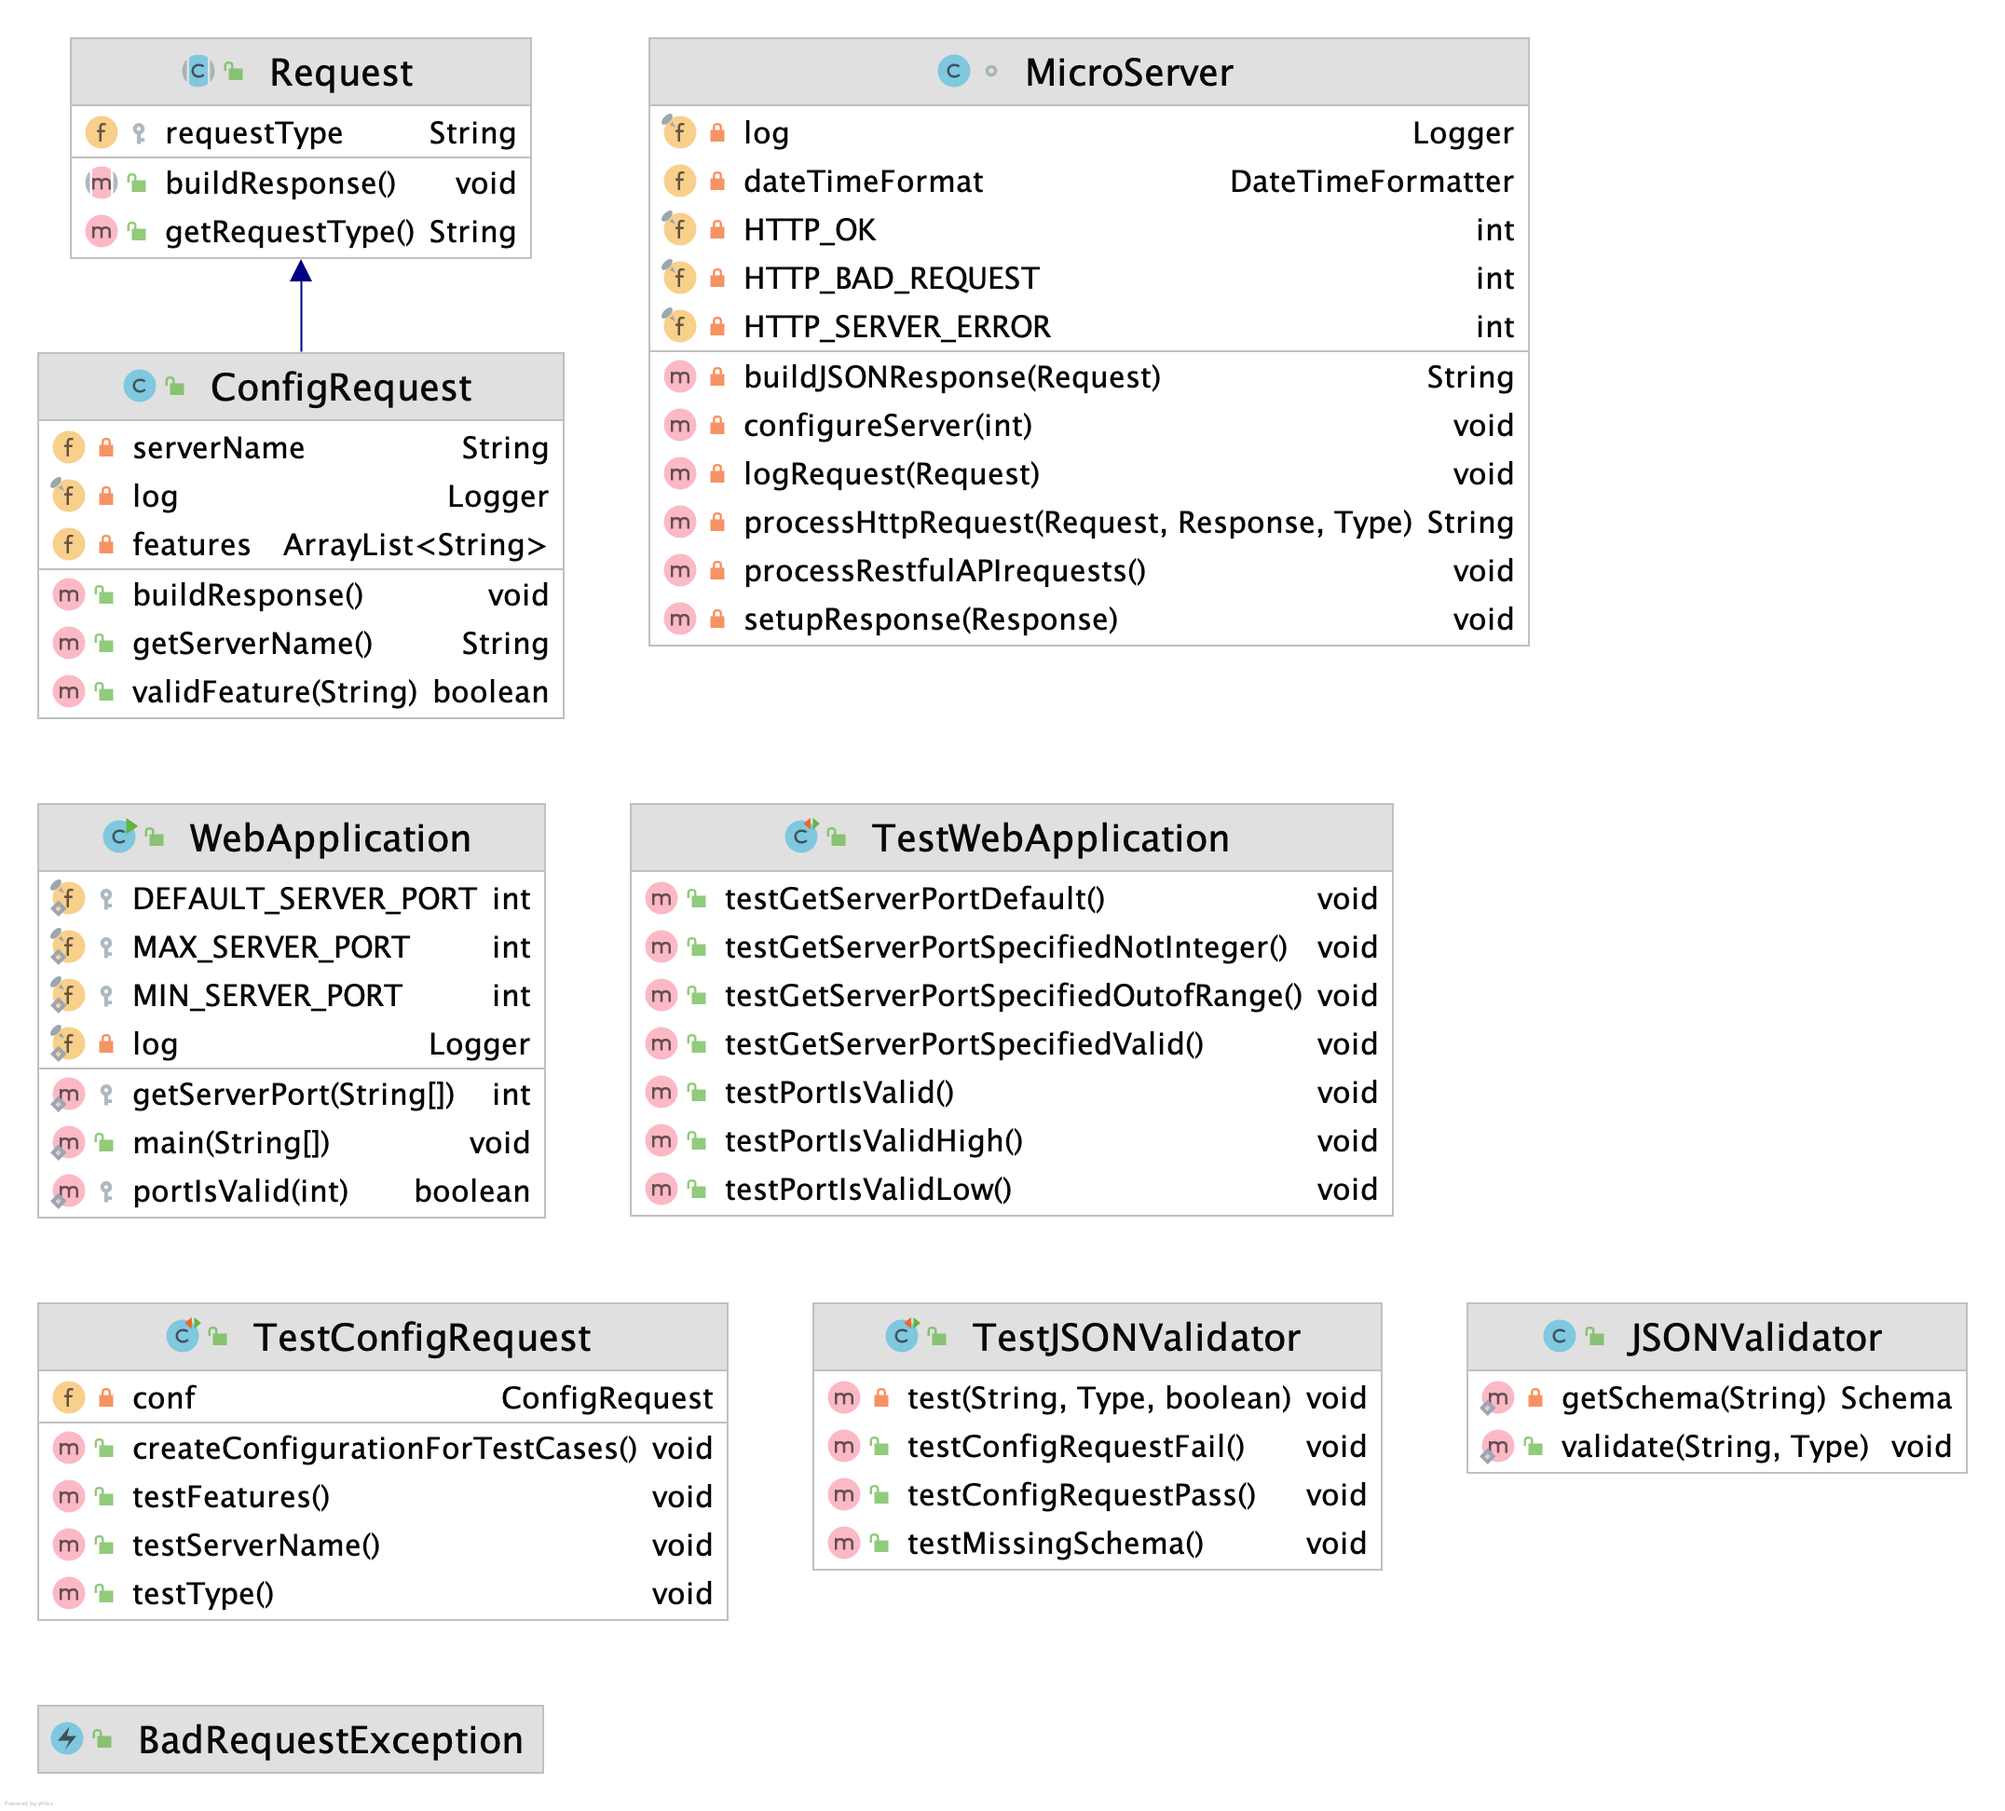
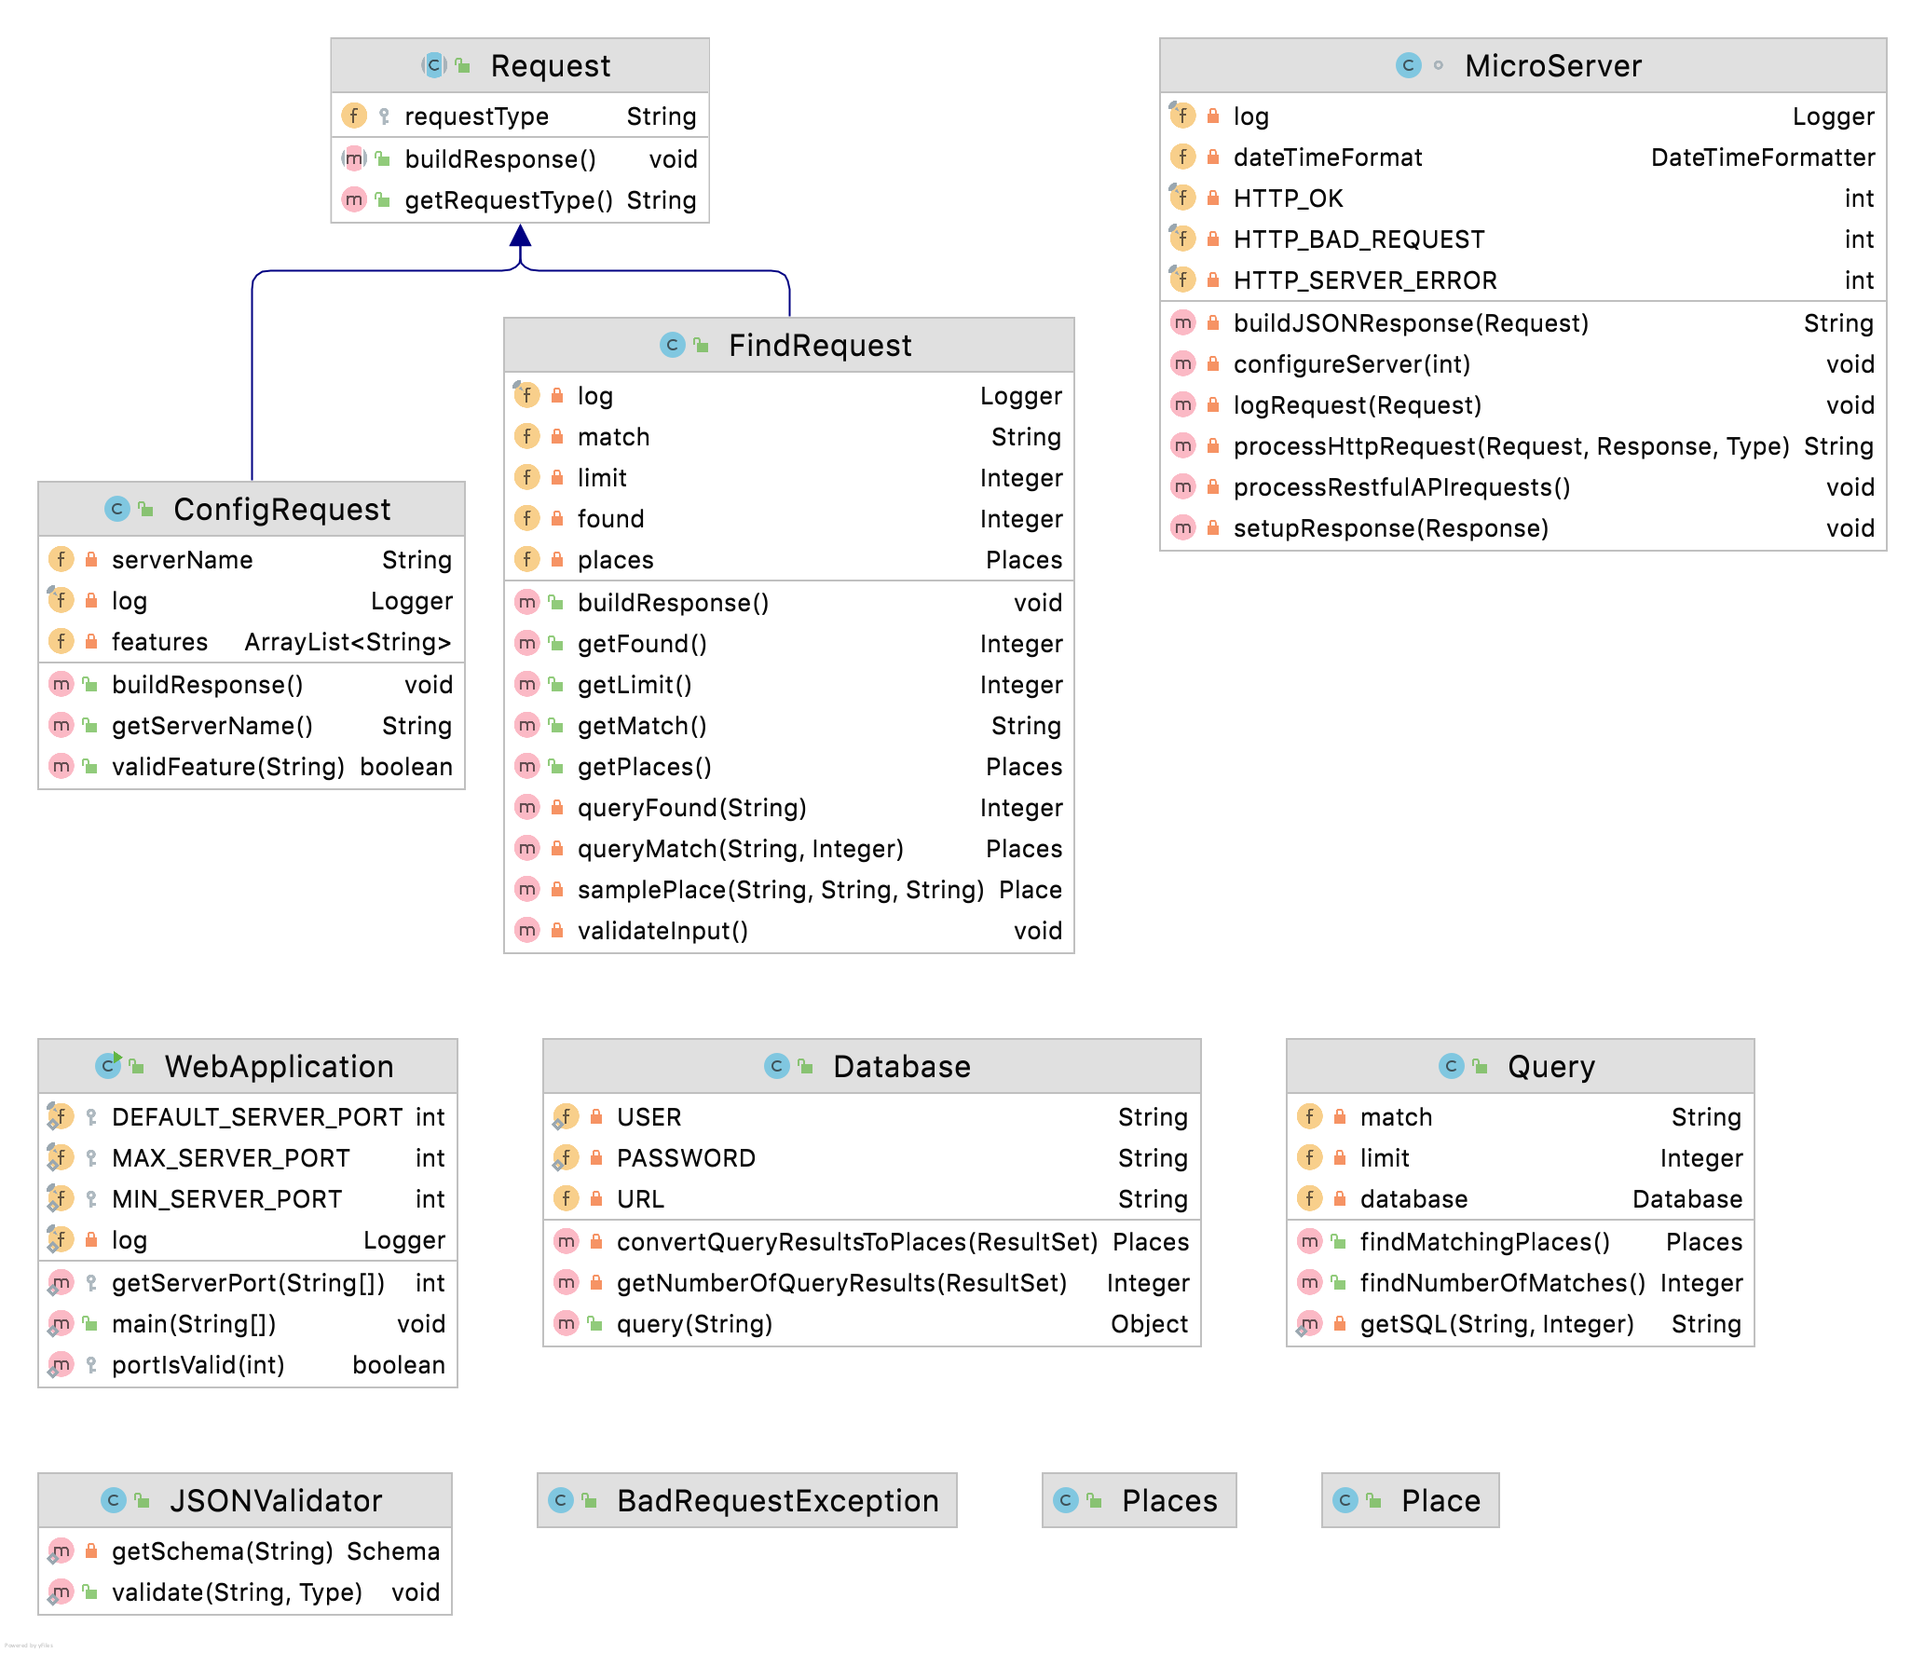
-Updated design.md to reflect current progress

Changed region(s): [[0.0, 0.0, 0.9913, 0.9921], [0.6815, 0.8681, 0.8054, 0.9301]]

diff --git a/reports/design.md b/reports/design.md
@@ -99,11 +99,15 @@ The classes in blue represent the classes specific to this application.
 * ConfigRequest is a specific request that allows the server to respond with its configuration to allow interoperability between clients and servers. 
 * Request defines the basic components of all requests.
 * BadReqeustException allows us to distinguish bad requests from other types of exceptions that may occur.
+* FindRequest is a specific request that allows the server to respond with a query from the database containing the number of matches and a list of Places
+* Query takes the parameters given to FindRequest and creates a search for the database
+* Database creates a connection to the database, sends the query, and then processes and returns results
 
 These test classes provide automated tests for unit testing.
 * TestWebApplication
 * TestConfigRequest
 * TestJSONValidator
+* TestFindRequest
 
 
 # Sprint 1
